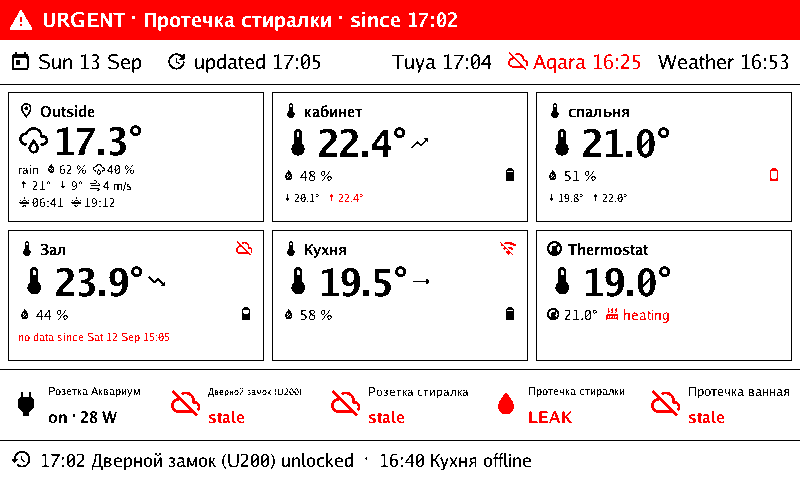
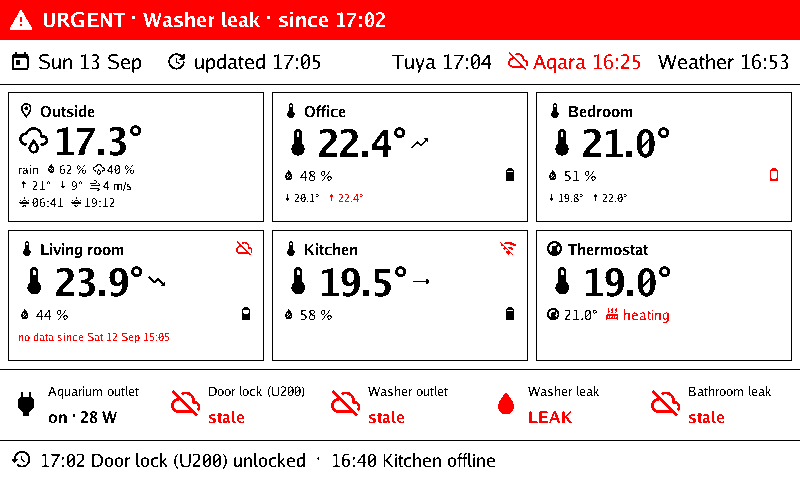
README: the English frame as the screenshot, named in English
The English golden frames now carry English device names, so the README
shows a home that reads as a whole; the Russian frames keep the real names.

Claude-Session: https://claude.ai/code/session_01Diog7s7WYgFimRvMTrVaEu

diff --git a/internal/scene/fixture_test.go b/internal/scene/fixture_test.go
@@ -16,6 +16,14 @@ var (
 // fixture builds a view with the user's real device inventory, a weather
 // device, one alert and two events — every widget gets exercised.
 func fixture(t *testing.T, lang string) View {
+	// Device names come from the clouds, so a home is named in its owner's
+	// language; the English frames get English names to read as a whole.
+	name := func(ru, en string) string {
+		if lang == "en" {
+			return en
+		}
+		return ru
+	}
 	t.Helper()
 	bundle, err := i18n.Load(lang)
 	if err != nil {
@@ -23,16 +31,16 @@ func fixture(t *testing.T, lang string) View {
 	}
 	devices := []model.Device{
 		{ID: "weather:home", Name: "Home", Kind: model.KindVirtual},
-		{ID: "tuya:office", Name: "кабинет", Room: "", Kind: model.KindClimateSensor},
-		{ID: "tuya:bedroom", Name: "спальня", Kind: model.KindClimateSensor},
-		{ID: "tuya:hall", Name: "Зал", Kind: model.KindClimateSensor},
-		{ID: "tuya:kitchen", Name: "Кухня", Kind: model.KindClimateSensor},
+		{ID: "tuya:office", Name: name("кабинет", "Office"), Room: "", Kind: model.KindClimateSensor},
+		{ID: "tuya:bedroom", Name: name("спальня", "Bedroom"), Kind: model.KindClimateSensor},
+		{ID: "tuya:hall", Name: name("Зал", "Living room"), Kind: model.KindClimateSensor},
+		{ID: "tuya:kitchen", Name: name("Кухня", "Kitchen"), Kind: model.KindClimateSensor},
 		{ID: "tuya:thermostat", Name: "Thermostat", Kind: model.KindThermostat},
-		{ID: "tuya:aquarium", Name: "Розетка Аквариум", Kind: model.KindOutlet},
-		{ID: "aqara:lock", Name: "Дверной замок (U200)", Room: "Прихожая", Kind: model.KindLock},
-		{ID: "aqara:washer", Name: "Розетка стиралка", Room: "Прихожая", Kind: model.KindOutlet},
-		{ID: "aqara:leak1", Name: "Протечка стиралки", Room: "Прихожая", Kind: model.KindLeakSensor},
-		{ID: "aqara:leak2", Name: "Протечка ванная", Room: "Ванная", Kind: model.KindLeakSensor},
+		{ID: "tuya:aquarium", Name: name("Розетка Аквариум", "Aquarium outlet"), Kind: model.KindOutlet},
+		{ID: "aqara:lock", Name: name("Дверной замок (U200)", "Door lock (U200)"), Room: name("Прихожая", "Hallway"), Kind: model.KindLock},
+		{ID: "aqara:washer", Name: name("Розетка стиралка", "Washer outlet"), Room: name("Прихожая", "Hallway"), Kind: model.KindOutlet},
+		{ID: "aqara:leak1", Name: name("Протечка стиралки", "Washer leak"), Room: name("Прихожая", "Hallway"), Kind: model.KindLeakSensor},
+		{ID: "aqara:leak2", Name: name("Протечка ванная", "Bathroom leak"), Room: name("Ванная", "Bathroom"), Kind: model.KindLeakSensor},
 	}
 	num := model.NumberValue
 	readings := map[model.DeviceID]map[model.Metric]model.Value{
@@ -78,7 +86,7 @@ func fixture(t *testing.T, lang string) View {
 			"tuya:hall":    {model.Temperature: -0.5},
 			"tuya:kitchen": {model.Temperature: 0.1},
 		},
-		Alerts: []Alert{{Severity: SeverityUrgent, Message: "Протечка стиралки", Since: epoch.Add(-3 * time.Minute)}},
+		Alerts: []Alert{{Severity: SeverityUrgent, Message: name("Протечка стиралки", "Washer leak"), Since: epoch.Add(-3 * time.Minute)}},
 		Events: []model.Event{
 			{Device: "aqara:lock", Kind: model.EventUnlocked, At: epoch.Add(-3 * time.Minute)},
 			{Device: "tuya:kitchen", Kind: model.EventOffline, At: epoch.Add(-25 * time.Minute)},

diff --git a/internal/scene/view_test.go b/internal/scene/view_test.go
@@ -149,7 +149,7 @@ func TestViewEventSubject(t *testing.T) {
 		event model.Event
 		want  string
 	}{
-		{name: "known device", event: model.Event{Device: "aqara:lock"}, want: "Дверной замок (U200)"},
+		{name: "known device", event: model.Event{Device: "aqara:lock"}, want: "Door lock (U200)"},
 		{name: "detail", event: model.Event{Kind: model.EventAlertRaised, Detail: "leak"}, want: "leak"},
 		{name: "unknown device", event: model.Event{Device: "x:y"}, want: "x:y"},
 	}

diff --git a/README.md b/README.md
@@ -10,7 +10,7 @@ the house onto a 7.5" three-colour e-ink panel. Named after the domovoi, the
 Slavic house spirit that keeps an eye on the household and grumbles when
 something is wrong.
 
-![The overview scene: outside weather, room tiles, the hallway strip and an alert](internal/scene/testdata/full_ru.png)
+![The overview scene: outside weather, room tiles, the hallway strip and an alert](internal/scene/testdata/full_en.png)
 
 ## What it shows
 
